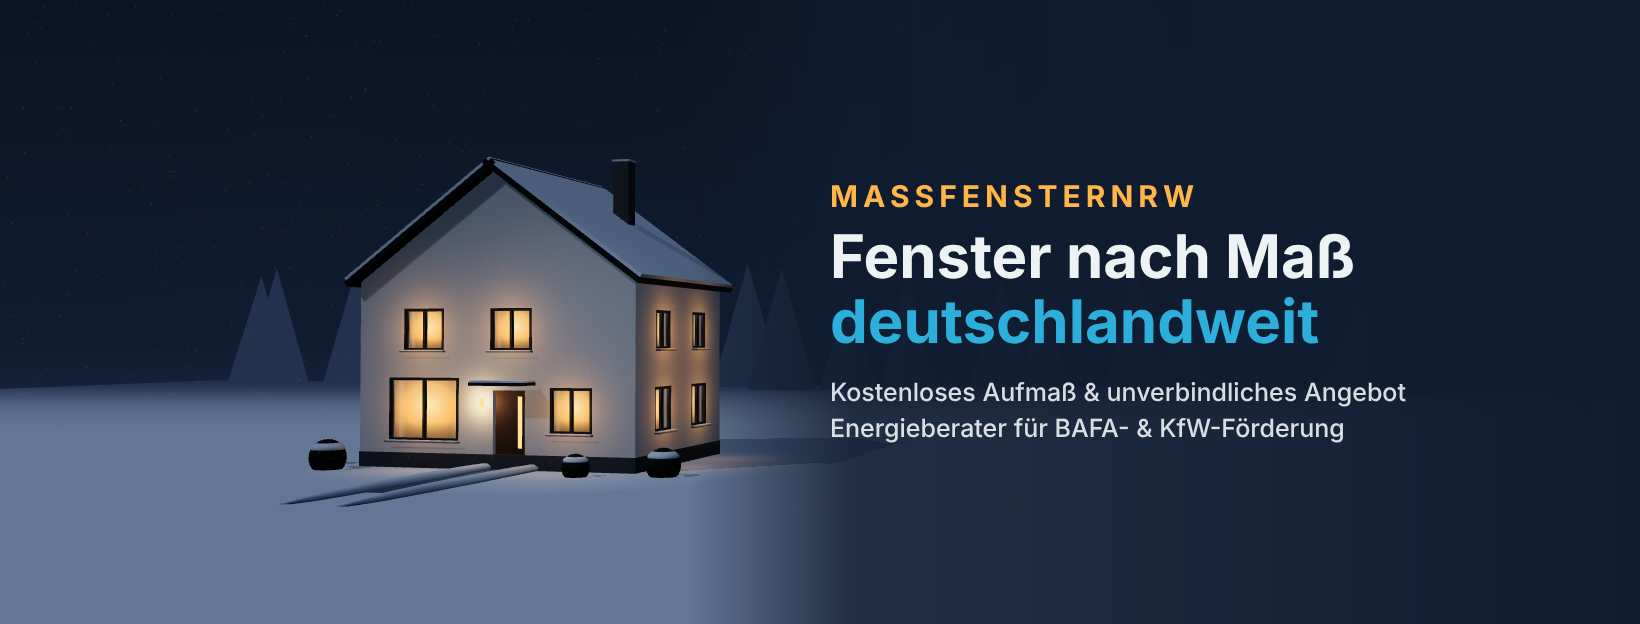
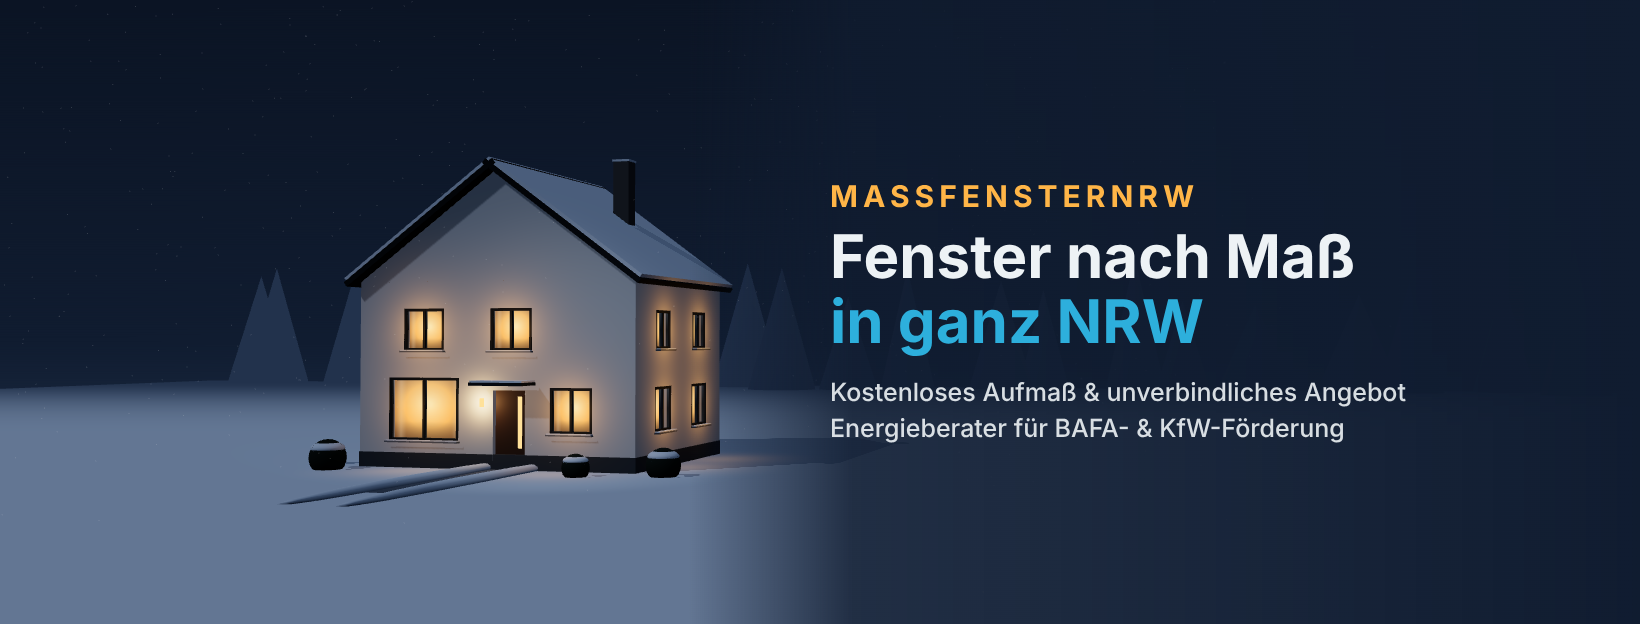
Use NRW as service region in profile kit, Facebook cover and website audit
Claude-Session: https://claude.ai/code/session_01YKjcUpsJCtbgztkN6KSxK3

Changed region(s): [[0.4976, 0.4567, 0.8085, 0.5785]]

diff --git a/src/Profil.tsx b/src/Profil.tsx
@@ -19,7 +19,7 @@ export const ProfilBild: React.FC<{variant: 'full' | 'mark'}> = ({variant}) => (
   </AbsoluteFill>
 );
 
-// ---------- Facebook-Titelbild 1640 × 624 (zeitlos, ohne befristete Aktion) ----------
+// ---------- Facebook-Titelbild 1640 × 624 (zeitlos, Region NRW, ohne befristete Aktion) ----------
 // Mobil wird links/rechts beschnitten -> Text bleibt in der Mitte (sicherer Bereich ca. 1200 px breit)
 export const FacebookCover: React.FC = () => {
   const {width, height} = useVideoConfig();
@@ -36,7 +36,7 @@ export const FacebookCover: React.FC = () => {
       <div style={{position: 'absolute', left: 830, right: 170, top: 0, bottom: 0, display: 'flex', flexDirection: 'column', justifyContent: 'center'}}>
         <div style={{fontSize: 30, fontWeight: 700, letterSpacing: 5, color: C.amber}}>MASSFENSTERNRW</div>
         <div style={{fontSize: 60, fontWeight: 700, lineHeight: 1.08, marginTop: 10}}>Fenster nach Maß</div>
-        <div style={{fontSize: 60, fontWeight: 700, lineHeight: 1.08, color: '#2dafdc'}}>deutschlandweit</div>
+        <div style={{fontSize: 60, fontWeight: 700, lineHeight: 1.08, color: '#2dafdc'}}>in ganz NRW</div>
         <div style={{fontSize: 25, fontWeight: 500, marginTop: 20, opacity: 0.9, lineHeight: 1.45}}>
           Kostenloses Aufmaß & unverbindliches Angebot
           <br />

diff --git a/exports/website/WEBSITE-AUDIT.md b/exports/website/WEBSITE-AUDIT.md
@@ -33,7 +33,7 @@ Numara sadece düz metin olarak duruyor; mobilde dokununca arama başlamıyor.
 ### 3. Açılış bölümü (hero) teklif ve buton içermiyor
 Şu an: daktilo efektiyle "FENSTER TÜR ROLLADEN" ve İngilizce bir "Show Me More" butonu var.
 **Yeni metin önerisi:**
-- **H1:** `Fenster nach Maß – deutschlandweit`
+- **H1:** `Fenster nach Maß in ganz NRW`
 - Alt satır: `Kostenloses Aufmaß, unverbindliches Angebot und Energieberater für BAFA- und KfW-Förderung.`
 - Buton 1 (turkuaz): `Kostenloses Aufmaß anfragen` → WhatsApp linki
 - Buton 2 (çerçeveli): `Jetzt anrufen` → `tel:+491794755318`
@@ -73,16 +73,16 @@ Not: Blog yazıları **2019** tarihli görünüyor; site bakımsız izlenimi ver
 ## 🟡 Öncelik 3: Google'da bulunma (SEO)
 
 All in One SEO → Ana sayfa:
-- **SEO başlığı** (51/60):
+- **SEO başlığı** (39/60):
   ```
-  Fenster nach Maß – deutschlandweit | MassFensterNRW
+  Fenster nach Maß in NRW | MassFensterNRW
   ```
 - **Meta açıklama** (139/155). Şu anki otomatik metin anlamsız ("FENSTER TÜR ROLLADEN MASSFENSTERNRW Show Me More…"):
   ```
   Fenster, Türen & Rollläden nach Maß: kostenloses Aufmaß, unverbindliches Angebot und Energieberater für BAFA/KfW-Förderung. Jetzt anfragen!
   ```
 - **Alternatif metinler:** Her görsele kısa bir açıklama ekle, örn. `Monteur justiert neues Kunststofffenster`.
-- **Bölge tutarlılığı:** Site "in NRW" diyor, sosyal medya artık "deutschlandweit". Birine karar verip ikisini eşitle.
+- **Bölge:** Her yerde **NRW** kullanılıyor (site, sosyal medya, reklamlar). Hizmet verdiğin şehirleri (örn. Rösrath, Köln, Bergisch Gladbach, Leverkusen …) "Einsatzgebiet" başlıklı bir bölümde sırala; yerel aramalarda bulunmanı kolaylaştırır.
 - **Google Business Profile:** Rösrath adresiyle ücretsiz işletme profili aç ya da mevcut profili güncelle (harita, yorumlar, telefon). Yerel aramada en çok etkiyi bu yapar.
 
 ---
